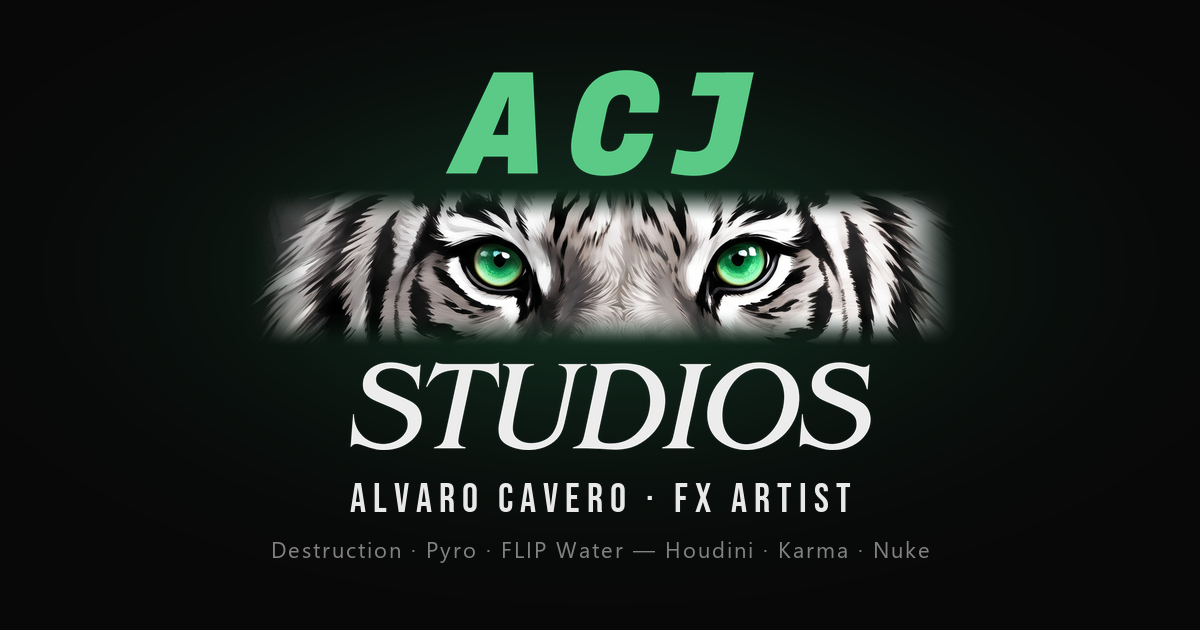
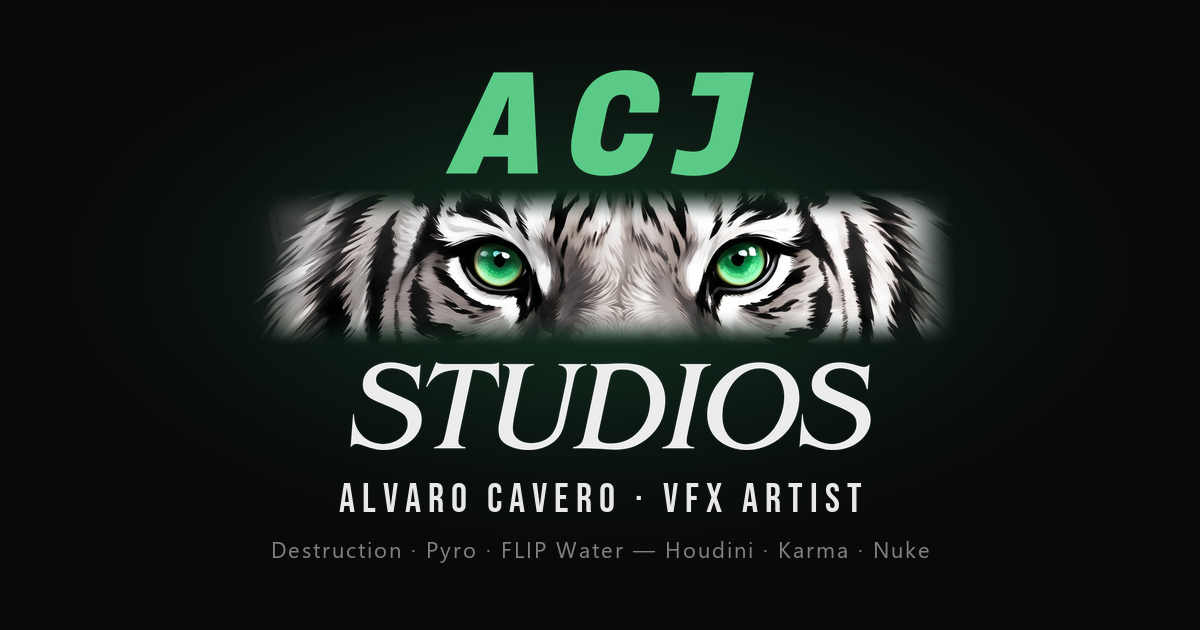
Use VFX Artist instead of FX Artist
Hero subtitle, page title, description, OG image and its alt text.

Changed region(s): [[0.2775, 0.754, 0.5242, 0.8143], [0.555, 0.754, 0.74, 0.8143]]

diff --git a/app/layout.tsx b/app/layout.tsx
@@ -5,13 +5,13 @@ import ThemeToggle from "@/components/ui/theme-toggle";
 
 export const metadata: Metadata = {
   metadataBase: new URL("https://alvaro-cavero-vfx.vercel.app"),
-  title: "ACJ Studios | Alvaro Cavero, FX Artist",
+  title: "ACJ Studios | Alvaro Cavero, VFX Artist",
   description:
-    "Alvaro Cavero, FX Artist based in Madrid. Specializing in photorealistic destruction, fire, water simulation and cinematic rendering for cinema and games. Houdini · Karma · Nuke · Unreal Engine.",
+    "Alvaro Cavero, VFX Artist based in Madrid. Specializing in photorealistic destruction, fire, water simulation and cinematic rendering for cinema and games. Houdini · Karma · Nuke · Unreal Engine.",
   keywords: ["VFX Artist", "Houdini", "Karma XPU", "Nuke", "Unreal Engine", "Pyro", "FLIP Fluids", "Destruction VFX"],
   authors: [{ name: "Alvaro Cavero" }],
   openGraph: {
-    title: "ACJ Studios | Alvaro Cavero, FX Artist",
+    title: "ACJ Studios | Alvaro Cavero, VFX Artist",
     description: "Photorealistic FX for cinema and games: destruction, pyro and FLIP water in Houdini.",
     type: "website",
   },

diff --git a/components/Hero.tsx b/components/Hero.tsx
@@ -299,7 +299,7 @@ export default function Hero() {
               <SplitText text="ALVARO CAVERO" stagger={0.03} charDuration={0.4} delay={1000} triggerOnMount />
             </span>
             <span style={{ fontVariationSettings: "'wght' 400", animation: "weight-pulse 3s ease-in-out 1.8s infinite" }}>
-              <SplitText text="FX ARTIST" stagger={0.03} charDuration={0.4} delay={1200} triggerOnMount />
+              <SplitText text="VFX ARTIST" stagger={0.03} charDuration={0.4} delay={1200} triggerOnMount />
             </span>
           </p>
           {/* Animated gold line under subtitle */}
